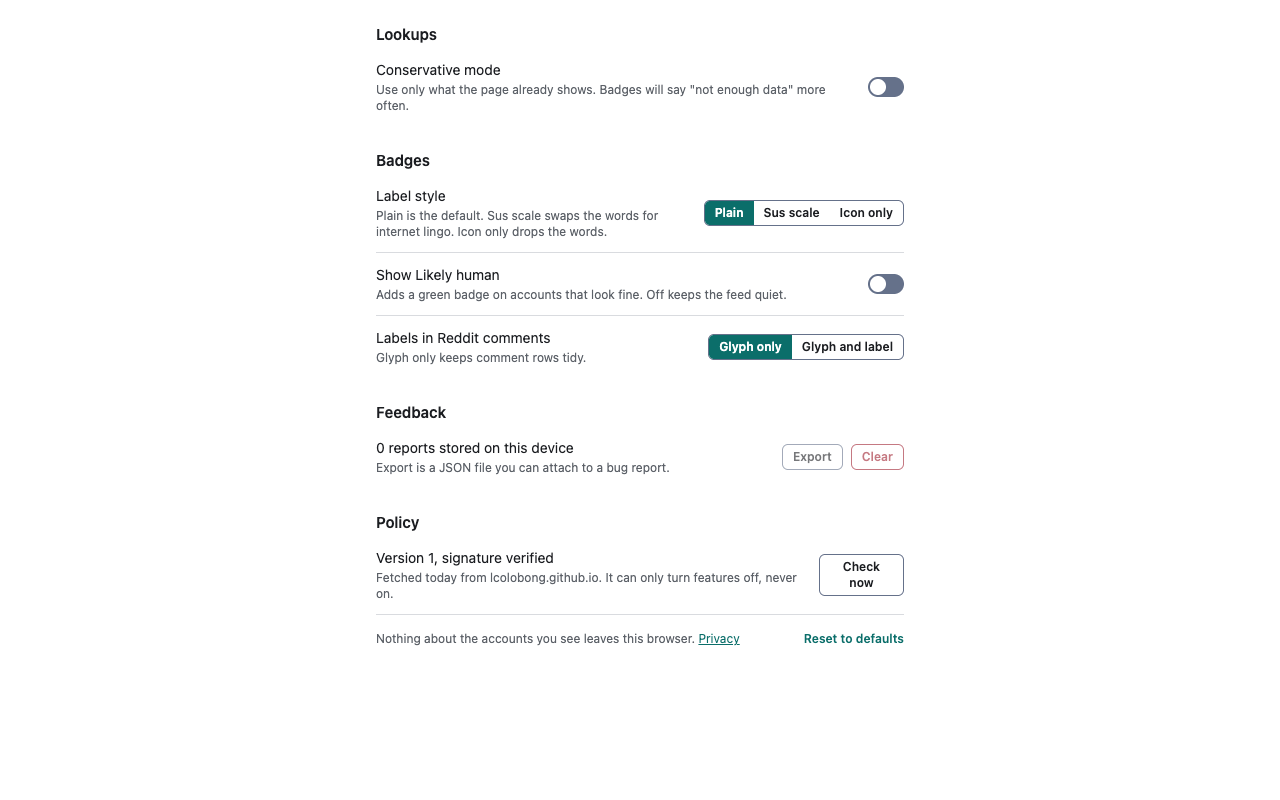
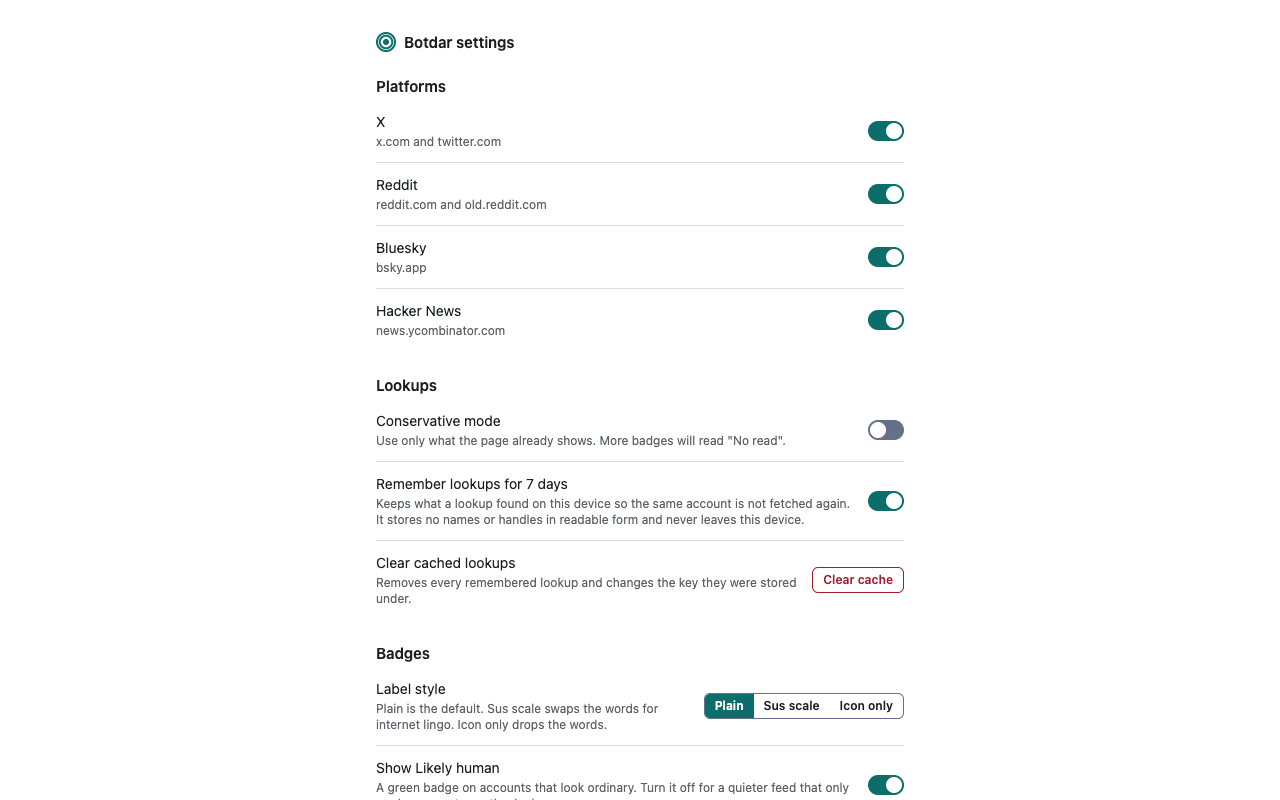
[4/4][Disclosure] Say in onboarding what the lookups send
The onboarding privacy panel said "Everything stays on this device", that
nothing about the accounts you see leaves the browser, and that Botdar never
sends names anywhere. The Tier 2 lookups send an author's name to the platform
the post is on, its site for X and Reddit and its public API for Bluesky and
Hacker News, so the panel now says the name goes "only to the platform's site
or public API", keeps "nothing goes to us", and its headline becomes
"Computed on this device". The "never does" line drops "send names
anywhere" for "send anything to us".

The shared privacy caption (popup footer, options page, onboarding) had the
same claim and now reads "Nothing is sent to us; lookups go only to the
platform." No UI elements are added. The onboarding and options tests assert
the new copy.

The store screenshots of the popup and options page (store/screenshots/04-options.png,
05-popup.png) are regenerated with scripts/smoke/storeScenes.ts so they show
this copy, the popup caption in store/screenshots/README.md stops saying
nothing leaves the browser, and docs/design.md describes the panel as it now
reads. The options store scene no longer scrolls to the Lookups heading: the
page has grown, so that framing dropped the platform switches its caption
names; it is now captured from the top of the page.

diff --git a/scripts/smoke/storeScenes.ts b/scripts/smoke/storeScenes.ts
@@ -29,9 +29,6 @@ const policyLastKnownGoodKey = "policy.lkg";
 const policyLastAttemptKey = "policy.lastAttempt";
 const policyKeyId = "2026-10";
 const signedPolicyPath = "policy/dist/v1.json";
-/** Scrolls the options page so the Lookups heading sits this far from the top, keeping Badges and Policy in frame. */
-const optionsHeadingTopOffset = 24;
-const scrollRoomPx = 400;
 
 interface StoreFeedScene {
   readonly file: string;
@@ -155,29 +152,11 @@ async function captureExtensionPageAt(
   url: string,
   viewport: Viewport,
   path: string,
-  scrollToHeading?: string,
 ): Promise<string> {
   const page: Page = await openThemedPage(context, "light", viewport, false);
   try {
     await page.goto(url, { waitUntil: "load" });
     await page.waitForTimeout(pageSettleMs);
-    if (scrollToHeading !== undefined) {
-      // The page is barely taller than the viewport, so it cannot scroll far enough to put the
-      // heading near the top; extra space below the last section lets it, without touching the app.
-      await page.addStyleTag({ content: `body { padding-bottom: ${scrollRoomPx}px; }` });
-      await page.evaluate(
-        ({ heading, offset }: { heading: string; offset: number }): void => {
-          const target: Element | undefined = [...document.querySelectorAll("h1, h2, h3")].find(
-            (candidate) => candidate.textContent?.trim() === heading,
-          );
-          if (target !== undefined) {
-            window.scrollTo(0, target.getBoundingClientRect().top + window.scrollY - offset);
-          }
-        },
-        { heading: scrollToHeading, offset: optionsHeadingTopOffset },
-      );
-      await page.waitForTimeout(hoverSettleMs);
-    }
     await page.screenshot({ path });
     return await page.evaluate((): string => {
       const bodyColor: string = getComputedStyle(document.body).backgroundColor;
@@ -231,12 +210,12 @@ export async function captureStoreScenes(
     return records;
   }
   await seedFetchedPolicy(context, extensionId, viewport);
+  // Framed from the top of the page, so the platform switches the caption names come first.
   await captureExtensionPageAt(
     context,
     `chrome-extension://${extensionId}/options.html`,
     viewport,
     join(outDir, optionsFile),
-    "Lookups",
   );
   records.push(record(optionsFile, "light", "captured"));
   const popupAlonePath: string = join(outDir, "popup-alone.png");

diff --git a/src/ui/onboarding/App.tsx b/src/ui/onboarding/App.tsx
@@ -68,7 +68,7 @@ function BadgePanel() {
 function PrivacyPanel() {
   return (
     <>
-      <h1 class="bd-display">Everything stays on this device</h1>
+      <h1 class="bd-display">Computed on this device</h1>
       <p>Botdar reads what is already on the page and computes the badge in your browser.</p>
       <div class="bd-panel__body">
         <div class="bd-block">
@@ -77,11 +77,12 @@ function PrivacyPanel() {
           when a post comes into view, elsewhere when you hover a badge.
         </div>
         <div class="bd-block">
-          <strong>What leaves your browser:</strong> nothing about the accounts you see. Once a day
-          it downloads a small signed settings file from this project's site.
+          <strong>What leaves your browser:</strong> an author's name, sent only to the platform's
+          site or public API for their public profile; nothing goes to us. Once a day it downloads a
+          small signed settings file from this project's site.
         </div>
         <div class="bd-block">
-          <strong>What it never does:</strong> hide posts, send names anywhere, or call anyone a
+          <strong>What it never does:</strong> hide posts, send anything to us, or call anyone a
           bot. It describes patterns and shows you why.
         </div>
         <p class="bd-caption">{PRIVACY_SENTENCE}</p>

diff --git a/tests/unit/ui/onboarding/App.test.tsx b/tests/unit/ui/onboarding/App.test.tsx
@@ -60,13 +60,16 @@ describe("onboarding App", () => {
   it("steps through the privacy panel to the controls panel", async () => {
     const container: HTMLDivElement = mount();
     await advance(container);
-    expect(headline(container)).toBe("Everything stays on this device");
+    expect(headline(container)).toBe("Computed on this device");
     const blocks: string[] = Array.from(container.querySelectorAll(".bd-block strong")).map(
       (block) => block.textContent ?? "",
     );
     expect(blocks).toEqual(["What it reads:", "What leaves your browser:", "What it never does:"]);
     expect(container.textContent).toContain(
-      "Nothing about the accounts you see leaves this browser.",
+      "an author's name, sent only to the platform's site or public API for their public profile; nothing goes to us.",
+    );
+    expect(container.textContent).toContain(
+      "Nothing is sent to us; lookups go only to the platform.",
     );
     expect(activeDot(container)).toBe(1);
 

diff --git a/src/ui/popup/App.tsx b/src/ui/popup/App.tsx
@@ -20,7 +20,7 @@ import { loadPolicyStatus, policyStatusLine } from "../policyStatus";
 import type { PolicyStatus } from "../policyStatus";
 
 export const NOTICE_SEEN_IDS_KEY = "notice.seenIds";
-export const PRIVACY_SENTENCE = "Nothing about the accounts you see leaves this browser.";
+export const PRIVACY_SENTENCE = "Nothing is sent to us; lookups go only to the platform.";
 
 export interface AppProps {
   now?: () => number;

diff --git a/tests/unit/ui/options/App.test.tsx b/tests/unit/ui/options/App.test.tsx
@@ -112,7 +112,7 @@ describe("options App", () => {
     const privacy: HTMLAnchorElement | null = container.querySelector(`a[href="${PRIVACY_URL}"]`);
     expect(privacy?.textContent).toBe("Privacy");
     expect(container.textContent).toContain(
-      "Nothing about the accounts you see leaves this browser.",
+      "Nothing is sent to us; lookups go only to the platform.",
     );
   });
 

diff --git a/docs/design.md b/docs/design.md
@@ -91,8 +91,9 @@ tradeoffs are in [decisions/ADR-0017](decisions/ADR-0017-badge-wording-and-label
   conservative mode, privacy sentence, link to settings.
 - **Options.** Platforms, lookups (conservative mode), badges (label style, show Likely human, labels in
   Reddit comments), feedback (export, clear), policy (version, verified, fetched, check now), reset.
-- **Onboarding.** Three panels: what the badge means (set A shown live), what data is used and what
-  never leaves the browser, how to turn it down.
+- **Onboarding.** Three panels: what the badge means (set A shown live), "Computed on this device"
+  (what is read, what does leave the browser: an author's name to the platform's site or public API
+  and the daily policy file, and what never does), how to turn it down.
 
 ## Copy rules
 

diff --git a/store/screenshots/README.md b/store/screenshots/README.md
@@ -18,7 +18,7 @@ Rules for every capture:
 | `02-bluesky-dark-card.png` | Works on Bluesky too, in light and dark. Every card names the innocent explanation.  |
 | `03-reddit-declared.png`   | Accounts that label themselves as automated get a "Declared bot" badge.              |
 | `04-options.png`           | Switch platforms on or off, pick a label style, or keep to what the page shows.      |
-| `05-popup.png`             | Everything stays in your browser. Nothing about the accounts you see leaves it.      |
+| `05-popup.png`             | Computed in your browser. Profile lookups go only to the platform; nothing to us.    |
 
 Regenerate all five with:
 
